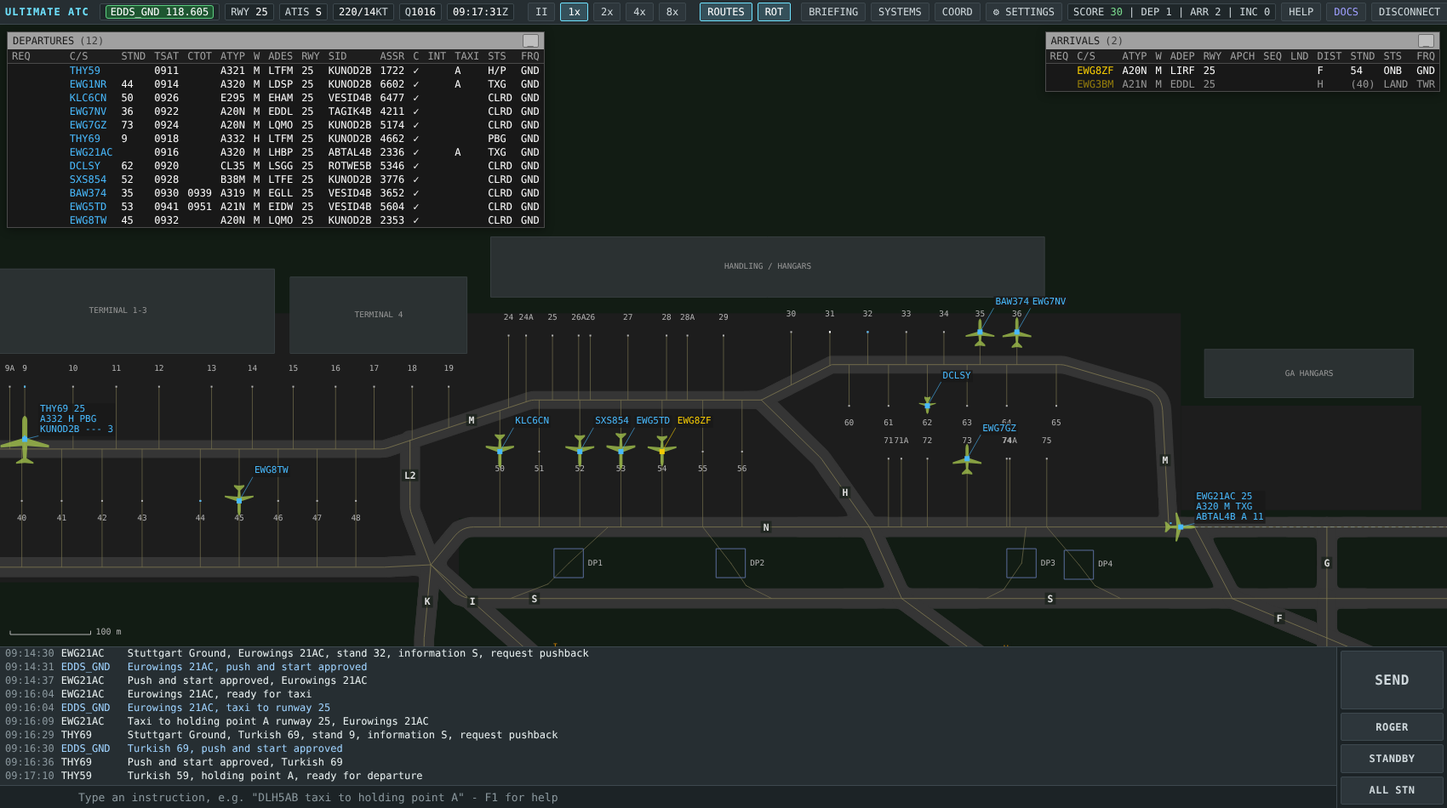
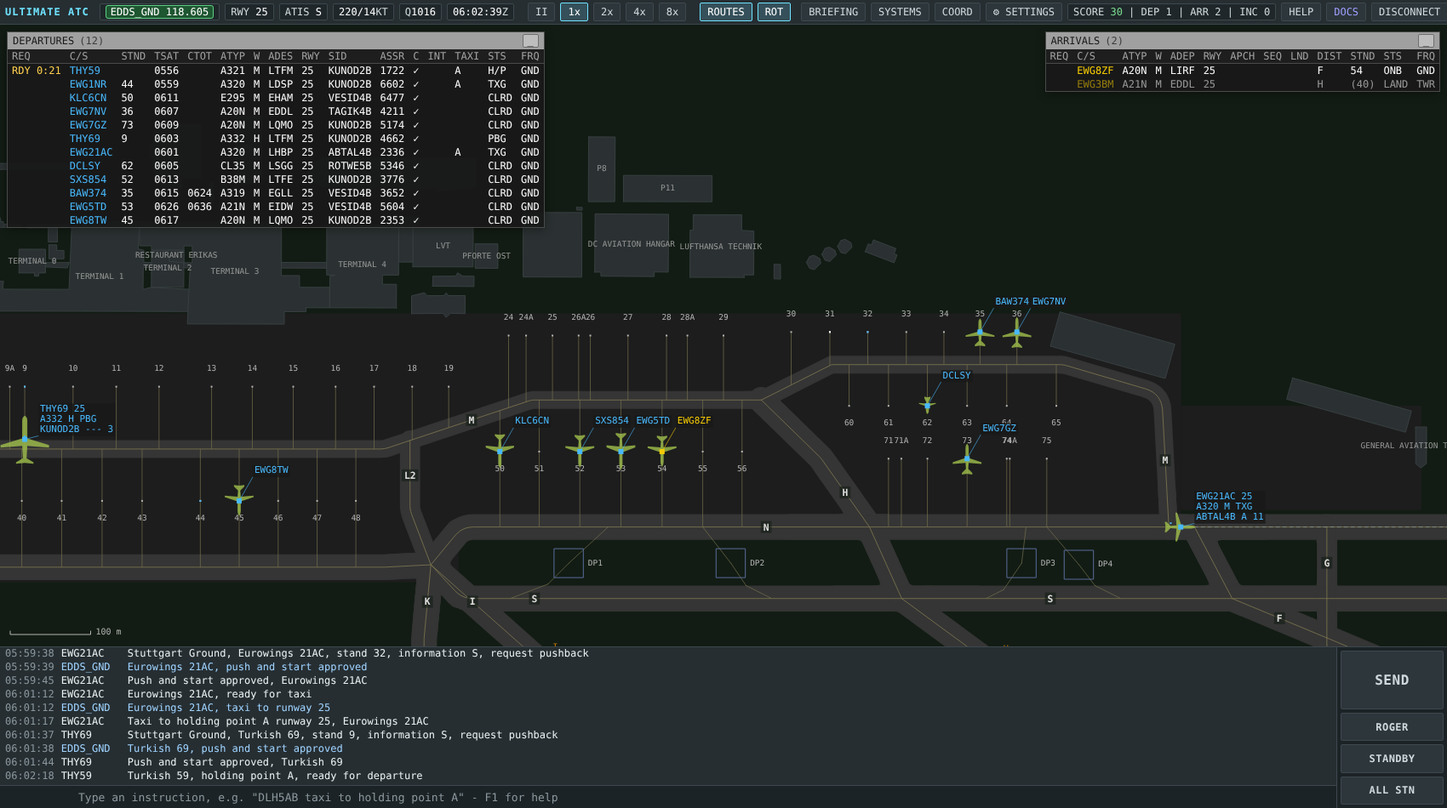
Release 1.3.0: complete Sylt and Nuremberg layouts, AIP check of all airports
- Sylt: the closed parts of the aerodrome chart digitised by hand (G along
  the east side, E south of 06/24, the former runway, the stub west of D,
  the turning pad at A); crosses are never drawn on a runway in use
- Nuremberg: the GA aprons OSM does not have, digitised from the ground
  movement chart (Apron G2 / G2A, J corridor, FAI and Aero-Dienst aprons,
  strips along S3 / S4), the lane into the Aero-Dienst apron; grass
  parking G3 is no longer drawn as an apron (importer skips grass aprons)
- Scope: each building name once, names keep clear of stand and taxiway
  labels
- Build: the generated airport data is a chunk of its own (no size warning)
- Tests for the new layouts, docs, changelog, screenshots, version 1.3.0,
  release benchmark (13.1 / 6.6 per hour, Tower 11.7 / 9.9, no collisions,
  incursions or go-arounds) and soak test

Claude-Session: https://claude.ai/code/session_012R9UeubPyobxY8xkUur18h

diff --git a/src/data/airports/edxw.ts b/src/data/airports/edxw.ts
@@ -82,6 +82,44 @@ const built = buildLayout(EDXW_LAYOUT, {
   ],
 });
 
+/**
+ * Paved parts of the aerodrome chart that OpenStreetMap does not have, digitised by hand from the chart
+ * (AD 2 EDXW 2-5, AMDT 06/26, georeferenced on the runway ends; approximate, about 5 m). Most of them are closed
+ * (crosses on the chart): G apart from its southern stub, E south of runway 06/24, the former runway east of
+ * 14/32 and the links around it. The former runway west of 14/32 (C runs on it) and the turning pad at A are open.
+ * Drawn only: none of them leads anywhere the simulated traffic goes.
+ */
+const CHART_PAVEMENT: { name?: string; closed?: boolean; widthM: number; points: [number, number][] }[] = [
+  // G north of the junction near the 32 end, along the east side to the 24 end
+  { name: 'G', closed: true, widthM: 15, points: [[54.9072426, 8.3543708], [54.9074088, 8.3545865], [54.9080852, 8.3545757], [54.9087560, 8.3545690], [54.9094268, 8.3545736], [54.9100976, 8.3545720], [54.9107694, 8.3545750], [54.9114412, 8.3545771], [54.9121125, 8.3545631], [54.9124932, 8.3545733], [54.9128372, 8.3545527], [54.9133122, 8.3543591], [54.9137956, 8.3541470], [54.9142785, 8.3539281], [54.9146125, 8.3537615], [54.9149611, 8.3535843], [54.9153405, 8.3533767], [54.9157101, 8.3531614], [54.9161184, 8.3528149], [54.9165205, 8.3524616]] },
+  // G into the 24 end
+  { name: 'G', closed: true, widthM: 15, points: [[54.9164730, 8.3525161], [54.9167058, 8.3523262], [54.9170807, 8.3518871]] },
+  // G from the junction near the 32 end west to runway 14/32 at the glide path antenna
+  { name: 'G', closed: true, widthM: 15, points: [[54.9072426, 8.3543708], [54.9072043, 8.3536086], [54.9071395, 8.3530168], [54.9070651, 8.3525544], [54.9069345, 8.3519428], [54.9068078, 8.3514407], [54.9066750, 8.3509909], [54.9063733, 8.3501845], [54.9060612, 8.3493561]] },
+  // E south of runway 06/24 to the former runway
+  { name: 'E', closed: true, widthM: 15, points: [[54.9162655, 8.3494707], [54.9158725, 8.3496114], [54.9154750, 8.3497596], [54.9150003, 8.3498395], [54.9145357, 8.3499070], [54.9140598, 8.3499618], [54.9136658, 8.3499518], [54.9132627, 8.3499419]] },
+  // from the former runway east to G
+  { closed: true, widthM: 12, points: [[54.9132627, 8.3499419], [54.9130764, 8.3506906], [54.9130408, 8.3508855], [54.9128330, 8.3517253], [54.9126268, 8.3525782], [54.9124170, 8.3534445], [54.9122643, 8.3541284], [54.9121125, 8.3545631]] },
+  // from runway 14/32 (east side) north-east to the former runway
+  { closed: true, widthM: 15, points: [[54.9101890, 8.3442430], [54.9105264, 8.3446779], [54.9108731, 8.3451309], [54.9113577, 8.3457312], [54.9118417, 8.3463293], [54.9123318, 8.3469349], [54.9128089, 8.3475243], [54.9132935, 8.3481377], [54.9134444, 8.3484099], [54.9135479, 8.3486681], [54.9136451, 8.3489789], [54.9137396, 8.3493958], [54.9138308, 8.3496718], [54.9139384, 8.3498751], [54.9140161, 8.3499480], [54.9140631, 8.3499596]] },
+  // narrow link from the runway intersection area north-east to the former runway
+  { closed: true, widthM: 6, points: [[54.9093941, 8.3452276], [54.9097573, 8.3457726], [54.9101111, 8.3463037], [54.9106148, 8.3470389], [54.9110958, 8.3477518], [54.9115882, 8.3484848], [54.9120808, 8.3492219], [54.9125763, 8.3499546], [54.9130764, 8.3506906]] },
+  // narrow loop east of runway 14/32
+  { closed: true, widthM: 6, points: [[54.9101111, 8.3463037], [54.9102828, 8.3468697], [54.9104567, 8.3474500], [54.9104692, 8.3475304], [54.9104487, 8.3478655], [54.9103790, 8.3480593], [54.9103228, 8.3480610], [54.9101379, 8.3479981], [54.9100299, 8.3477215], [54.9097831, 8.3469280], [54.9095352, 8.3461292], [54.9092925, 8.3453536]] },
+  // narrow link from A at the 06 end east along runway 06/24
+  { closed: true, widthM: 6, points: [[54.9098810, 8.3315902], [54.9098092, 8.3317729], [54.9095906, 8.3328211], [54.9093697, 8.3338900], [54.9091443, 8.3349747], [54.9089242, 8.3360384], [54.9087078, 8.3370834], [54.9084906, 8.3381314], [54.9082678, 8.3392053], [54.9080443, 8.3402802], [54.9078568, 8.3411893], [54.9078013, 8.3416604], [54.9078039, 8.3420912], [54.9078753, 8.3426524], [54.9079787, 8.3430434], [54.9081312, 8.3434333], [54.9083531, 8.3438025], [54.9088798, 8.3445165], [54.9093941, 8.3452276]] },
+  // the former runway east of runway 14/32
+  { closed: true, widthM: 80, points: [[54.9166852, 8.3361962], [54.9164236, 8.3372468], [54.9161560, 8.3383214], [54.9158980, 8.3393580], [54.9156331, 8.3404218], [54.9153682, 8.3414857], [54.9151033, 8.3425495], [54.9148452, 8.3435861], [54.9145804, 8.3446500], [54.9143155, 8.3457138], [54.9140506, 8.3467777], [54.9137925, 8.3478142], [54.9135276, 8.3488781], [54.9132627, 8.3499419]] },
+  // stub west of the D / C junction
+  { closed: true, widthM: 12, points: [[54.9184866, 8.3289665], [54.9182790, 8.3298014], [54.9180795, 8.3306041], [54.9178721, 8.3314369], [54.9178053, 8.3317824]] },
+  // the former runway west of runway 14/32 (C runs on it)
+  { widthM: 80, points: [[54.9178053, 8.3317824], [54.9175823, 8.3325930], [54.9173580, 8.3334938], [54.9171337, 8.3343946], [54.9169095, 8.3352954], [54.9166852, 8.3361962]] },
+  // turning pad west of A (south part)
+  { widthM: 16.5, points: [[54.9052627, 8.3325366], [54.9054072, 8.3331626], [54.9054739, 8.3335351]] },
+];
+/** The turning pad at the end of the stub west of A (chart). */
+const CHART_PAD: [number, number][] = [[54.9054739, 8.3338145], [54.9055355, 8.3337932], [54.9055877, 8.3337326], [54.9056226, 8.3336420], [54.9056348, 8.3335351], [54.9056226, 8.3334282], [54.9055877, 8.3333376], [54.9055355, 8.3332770], [54.9054739, 8.3332558], [54.9054123, 8.3332770], [54.9053601, 8.3333376], [54.9053252, 8.3334282], [54.9053129, 8.3335351], [54.9053252, 8.3336420], [54.9053601, 8.3337326], [54.9054123, 8.3337932]];
+
 // Thresholds: AIP AD 2.12 (no displaced thresholds).
 const THR_14 = { lat: 54.9193483, lon: 8.3328822 };
 const THR_32 = { lat: 54.9038508, lon: 8.3520942 };
@@ -129,9 +167,9 @@ export const EDXW: AirportData = {
   taxiNodes: built.taxiNodes,
   taxiEdges: built.taxiEdges,
   stands: built.stands,
-  areas: built.areas,
+  areas: [...built.areas, { name: 'Turning pad', polygon: CHART_PAD.map(([lat, lon]) => ({ lat, lon })) }],
   buildings: built.buildings,
-  pavement: built.pavement,
+  pavement: [...built.pavement, ...CHART_PAVEMENT.map((l) => ({ ...l, points: l.points.map(([lat, lon]) => ({ lat, lon })) }))],
   // Sylt Tower only (it also gives the clearances on VATSIM; in reality Bremen Radar does).
   stations: [
     { callsign: 'EDXW_TWR', type: 'TWR', name: 'Sylt Tower', frequency: '119.750' },

diff --git a/src/ui/scope.ts b/src/ui/scope.ts
@@ -281,10 +281,12 @@ export class Scope {
   ) {
     this.ctx = canvas.getContext('2d')!;
     this.computeLabels();
+    // Each name once, on the largest building that carries it (OSM often splits a complex into parts).
     this.namedBuildings = this.sim.airport.buildings
       .filter((b) => b.name && b.name !== 'Tower' && b.polygon.length >= 3)
       .map((b) => ({ name: b.name, ...polygonCentre(b.polygon) }))
-      .sort((a, b) => b.area - a.area);
+      .sort((a, b) => b.area - a.area)
+      .filter((b, i, all) => all.findIndex((o) => o.name === b.name) === i);
     this.pavement = pavementGeometry(this.sim.airport);
     this.bindEvents();
     this.resize();
@@ -666,6 +668,9 @@ export class Scope {
     const half = Math.max(2.5, 9 * z);
     const spacing = 60; // metres between crosses
     ctx.beginPath();
+    // No crosses on a runway in use (a closed former runway or taxiway may run beneath it).
+    const runways = [...new Set([...ap.runwayEnds.values()].map((e) => e.runway))];
+    const onRunway = (q: Vec2) => runways.some((r) => ap.isOnRunway(r, q, 5));
     const crossesAlong = (pts: Vec2[]) => {
       for (let k = 0; k < pts.length - 1; k++) {
         const a = pts[k];
@@ -673,7 +678,9 @@ export class Scope {
         const n = Math.max(1, Math.round(Math.hypot(b.x - a.x, b.y - a.y) / spacing));
         for (let i = 0; i < n; i++) {
           const t = (i + 0.5) / n;
-          const p = this.toScreen({ x: a.x + (b.x - a.x) * t, y: a.y + (b.y - a.y) * t });
+          const q = { x: a.x + (b.x - a.x) * t, y: a.y + (b.y - a.y) * t };
+          if (onRunway(q)) continue;
+          const p = this.toScreen(q);
           ctx.moveTo(p.x - half, p.y - half);
           ctx.lineTo(p.x + half, p.y + half);
           ctx.moveTo(p.x - half, p.y + half);
@@ -868,6 +875,10 @@ export class Scope {
       }
     }
 
+    // Screen boxes of the stand and taxiway labels: building names keep clear of them.
+    const taken: { x0: number; x1: number; y0: number; y1: number }[] = [];
+    const box = (x: number, y: number, halfW: number, halfH: number) => ({ x0: x - halfW, x1: x + halfW, y0: y - halfH, y1: y + halfH });
+
     // Stands
     if (z > 0.35) {
       ctx.font = `${Math.max(9, Math.min(12, 10 * z))}px Consolas, monospace`;
@@ -878,6 +889,7 @@ export class Scope {
         const p = this.toScreen(add(s.pos, scale(v, 22)));
         ctx.fillStyle = this.t.standLabel;
         ctx.fillText(s.id, p.x, p.y);
+        taken.push(box(p.x, p.y, ctx.measureText(s.id).width / 2 + 1, 6));
         const q = this.toScreen(s.pos);
         ctx.fillRect(q.x - 1, q.y - 1, 2, 2);
       }
@@ -907,9 +919,9 @@ export class Scope {
       for (const l of this.taxiwayLabels) {
         if (l.repeat && z < 0.35) continue; // repeats only when zoomed in
         const p = this.toScreen(l.pos);
-        // Closed taxiways: designator in red.
         // Closed taxiways: designator in red (session closure) or grey (permanently closed).
         const u = l.name.toUpperCase();
+        taken.push(box(p.x, p.y, ctx.measureText(l.name).width / 2 + 3, 7));
         this.labelBox(l.name, p.x, p.y, ap.closedTaxiways.has(u) ? '#ff6b6b' : ap.outOfServiceTaxiways.has(u) ? this.t.standLabel : this.t.label);
       }
     }
@@ -920,15 +932,13 @@ export class Scope {
       ctx.fillStyle = this.t.buildingLabel;
       ctx.textAlign = 'center';
       ctx.textBaseline = 'middle';
-      // Largest buildings first; a name that would overlap one already drawn is left out.
-      const placed: { x0: number; x1: number; y0: number; y1: number }[] = [];
+      // Largest buildings first; a name that would overlap a stand, a taxiway or another name is left out.
       for (const b of this.namedBuildings) {
         const p = this.toScreen(b.centre);
         const text = b.name.toUpperCase();
-        const w = ctx.measureText(text).width / 2 + 2;
-        const box = { x0: p.x - w, x1: p.x + w, y0: p.y - 7, y1: p.y + 7 };
-        if (placed.some((q) => box.x0 < q.x1 && q.x0 < box.x1 && box.y0 < q.y1 && q.y0 < box.y1)) continue;
-        placed.push(box);
+        const r = box(p.x, p.y, ctx.measureText(text).width / 2 + 2, 7);
+        if (taken.some((q) => r.x0 < q.x1 && q.x0 < r.x1 && r.y0 < q.y1 && q.y0 < r.y1)) continue;
+        taken.push(r);
         ctx.fillText(text, p.x, p.y);
       }
     }

diff --git a/src/data/airports/eddn.ts b/src/data/airports/eddn.ts
@@ -94,6 +94,26 @@ const built = buildLayout(EDDN_LAYOUT, {
   ],
 });
 
+/**
+ * Paved areas OpenStreetMap does not have, digitised by hand from the AIP ground movement chart (AD 2 EDDN 2-7,
+ * AMDT 01/26, georeferenced on its graticule; approximate, a few metres): the parts of the GA aprons and the J
+ * corridor between the aprons that the OSM apron polygons leave out, the terminal frontage, the Hangar A
+ * forecourt, and the FAI and Aero-Dienst aprons (the outlines of their areas of responsibility; the chart does
+ * not shade them, their paving is inferred).
+ */
+const CHART_AREAS: [string, [number, number][]][] = [
+  ['Apron G2 / G2A', [[49.4953276, 11.0727706], [49.4951511, 11.0745654], [49.4945082, 11.0744164], [49.4947208, 11.0722537], [49.4951124, 11.0723445], [49.4951086, 11.0724445], [49.4951284, 11.0724859], [49.4951816, 11.0725532], [49.4952365, 11.0726027], [49.4952879, 11.072688]]],
+  ['Apron (S3 east)', [[49.4947496, 11.074454], [49.4945987, 11.0759885], [49.4947098, 11.0760142], [49.4946614, 11.0766272], [49.494299, 11.0765432], [49.4945099, 11.0743985]]],
+  ['Apron (J)', [[49.4968446, 11.0719345], [49.4967913, 11.0724765], [49.4966735, 11.0724584], [49.4965999, 11.072478], [49.4965294, 11.072526], [49.4964756, 11.0725869], [49.4964685, 11.0726587], [49.4947208, 11.0722537], [49.4947988, 11.0714605]]],
+  ['Apron (Hangar 8)', [[49.4959053, 11.0687192], [49.495855, 11.0692307], [49.4953389, 11.0691295], [49.4953362, 11.0691564], [49.4950907, 11.0690995], [49.4951516, 11.0684803], [49.4954848, 11.0685575], [49.4954903, 11.0686231]]],
+  ['Apron (S4)', [[49.4953433, 11.0690846], [49.4950998, 11.0715614], [49.4947958, 11.071491], [49.4949017, 11.0704141], [49.494814, 11.0703938], [49.4949393, 11.0691195], [49.4950855, 11.0691534], [49.4950978, 11.0690277]]],
+  ['Apron (west edge)', [[49.4970855, 11.0684512], [49.4970581, 11.0687294], [49.4960703, 11.0685005], [49.4960977, 11.0682223], [49.4962789, 11.0682643], [49.4962992, 11.0680579], [49.4963752, 11.0680755], [49.4963549, 11.0682819]]],
+  ['FAI apron', [[49.4956649, 11.0670298], [49.4955211, 11.0684925], [49.4950652, 11.0683869], [49.4949991, 11.0686451], [49.4947174, 11.0685798], [49.4948875, 11.0668497]]],
+  ['Aero-Dienst apron', [[49.4943249, 11.0729972], [49.4943037, 11.0732126], [49.4943388, 11.0732207], [49.4943211, 11.0734002], [49.4942993, 11.0737439], [49.4943354, 11.0738147], [49.4941644, 11.0755538], [49.4941141, 11.0755421], [49.49408, 11.0758885], [49.4938708, 11.07584], [49.4940748, 11.0737653], [49.4937007, 11.0736786], [49.4937801, 11.072871]]],
+  ['Apron (terminal frontage)', [[49.4953925, 11.074603], [49.4950073, 11.0784604], [49.4948904, 11.0784333], [49.4952698, 11.0745745]]],
+  ['Apron (Hangar A)', [[49.4945148, 11.0846242], [49.4943911, 11.0855776], [49.4942684, 11.0855491], [49.4943628, 11.0845889]]],
+];
+
 /** Thresholds: AIP AD 2.12 (not displaced; the paved areas beyond them are tagged stopway in OSM, the AIP lists none). */
 const END_10 = { lat: 49.5005506, lon: 11.05917 };
 const END_28 = { lat: 49.4969253, lon: 11.0960247 };
@@ -129,9 +149,13 @@ export const EDDN: AirportData = {
   taxiNodes: built.taxiNodes,
   taxiEdges: built.taxiEdges,
   stands: built.stands,
-  areas: built.areas,
+  areas: [...built.areas, ...CHART_AREAS.map(([name, polygon]) => ({ name, polygon: polygon.map(([lat, lon]) => ({ lat, lon })) }))],
   buildings: built.buildings,
-  pavement: built.pavement,
+  pavement: [
+    ...built.pavement,
+    // Unnamed lane from S3 south between Hangar 4 and Hangar 3 into the Aero-Dienst apron (ground movement chart).
+    { points: [[49.4946759, 11.0742773], [49.4946134, 11.0742462], [49.4944806, 11.07421], [49.4943698, 11.0741824], [49.4942879, 11.0741635]].map(([lat, lon]) => ({ lat, lon })), widthM: 10.5 },
+  ],
   stations: [
     { callsign: 'EDDN_GND', type: 'GND', name: 'Nuernberg Ground', frequency: '121.760' },
     { callsign: 'EDDN_TWR', type: 'TWR', name: 'Nuernberg Tower', frequency: '118.305' },

diff --git a/tests/layouts.test.ts b/tests/layouts.test.ts
@@ -58,6 +58,18 @@ describe('Sylt layout (aerodrome chart)', () => {
     expect(isRouteError(findRoute(ap, { node: ap.node('STAND_G4') }, ap.holdingPoint('D')!, [], { wingspanM: 21 }))).toBe(true);
     for (const hp of ['A', 'L']) expect(isRouteError(findRoute(ap, { node: ap.node('STAND_N1') }, ap.holdingPoint(hp)!, [], { wingspanM: 21 }))).toBe(false);
   });
+
+  it('draws the closed parts of the chart: G along the east side, E south of 06/24 and the former runway', () => {
+    const closed = (EDXW.pavement ?? []).filter((l) => l.closed);
+    expect(closed.filter((l) => l.name === 'G').length).toBe(3);
+    expect(closed.some((l) => l.name === 'E')).toBe(true);
+    // The former runway: 80 m wide, closed east of runway 14/32, open west of it (C runs on it).
+    expect((EDXW.pavement ?? []).filter((l) => l.widthM === 80).map((l) => !!l.closed).sort()).toEqual([false, true]);
+    // G and E are partly open, so they stay usable by name (only the drawn parts are closed).
+    const ap = new Airport(EDXW);
+    expect(ap.outOfServiceTaxiways.has('G')).toBe(false);
+    expect(ap.outOfServiceTaxiways.has('E')).toBe(false);
+  });
 });
 
 describe('Nuremberg layout (ground movement chart)', () => {
@@ -67,6 +79,22 @@ describe('Nuremberg layout (ground movement chart)', () => {
     const buildings = EDDN.buildings.map((b) => b.name);
     expect(buildings).toEqual(expect.arrayContaining(['Flughafen-Terminal', 'Hangar 2', 'Hangar 3', 'Hangar 4', 'Hangar 7', 'Hangar 8', 'Halle A']));
     expect(EDDN.buildings.length).toBeGreaterThan(50);
+  });
+
+  it('has the GA aprons of the chart and no pavement on the grass parking G3', () => {
+    const areas = EDDN.areas.map((a) => a.name);
+    expect(areas).toEqual(expect.arrayContaining(['Apron G2 / G2A', 'FAI apron', 'Aero-Dienst apron', 'H1', 'H2', 'H3', 'H4']));
+    // G3 (OSM: apron + landuse=grass) is grass, the scope background: no area there.
+    const ap = new Airport(EDDN);
+    const g3 = ap.proj.toLocal({ lat: 49.4965, lon: 11.0675 });
+    const inside = (poly: { x: number; y: number }[], p: { x: number; y: number }) => {
+      let c = false;
+      for (let i = 0, j = poly.length - 1; i < poly.length; j = i++) {
+        if (poly[i].y > p.y !== poly[j].y > p.y && p.x < ((poly[j].x - poly[i].x) * (p.y - poly[i].y)) / (poly[j].y - poly[i].y) + poly[i].x) c = !c;
+      }
+      return c;
+    };
+    expect(ap.areas.some((a) => inside(a.polygon, g3))).toBe(false);
   });
 });
 

diff --git a/src/data/airports/eddn.layout.ts b/src/data/airports/eddn.layout.ts
@@ -1,4 +1,4 @@
-// Generated by scripts/osm-import.mjs from OpenStreetMap on 2026-10-21 - do not edit by hand,
+// Generated by scripts/osm-import.mjs from OpenStreetMap on 2026-10-22 - do not edit by hand,
 // change OSM-derived facts in the importer options or override them in the airport file.
 // Data © OpenStreetMap contributors, available under the Open Database License (ODbL 1.0).
 import type { OsmLayout } from './osmLayout';
@@ -477,7 +477,6 @@ export const EDDN_LAYOUT: OsmLayout = {
     { id: "P6", pos: [49.494866, 11.0804094], heading: 189, lanes: ["M2.10"], spacingM: 0 },
   ],
   areas: [
-    { name: "Apron", polygon: [[49.4962706, 11.0668905], [49.4961342, 11.0682055], [49.4967259, 11.0683357], [49.4968707, 11.0670482], [49.49685, 11.0669686], [49.4967988, 11.0669252], [49.4962706, 11.0668905]] },
     { name: "", polygon: [[49.4984791, 11.064985], [49.4985616, 11.0652931], [49.499151, 11.0649833], [49.4994005, 11.0649897], [49.4996038, 11.0651732], [49.4997214, 11.0654841], [49.4998366, 11.0642968], [49.499723, 11.0645075], [49.499301, 11.0645106], [49.4984791, 11.064985]] },
     { name: "", polygon: [[49.4968242, 11.0947623], [49.4967076, 11.09599], [49.4964487, 11.0959207], [49.4961866, 11.0956611], [49.4953875, 11.0939987], [49.4955882, 11.0937823], [49.4959117, 11.0945377], [49.4962672, 11.0950543], [49.4964633, 11.0950938], [49.4966558, 11.0950571], [49.4967878, 11.0949076], [49.4968242, 11.0947623]] },
     { name: "", polygon: [[49.4978034, 11.0705484], [49.4987644, 11.0699849], [49.499153, 11.0700124], [49.4993087, 11.0697356], [49.4992087, 11.0707653], [49.4990741, 11.0704964], [49.4988744, 11.0703954], [49.4983357, 11.0705931], [49.4978859, 11.0708335], [49.4978034, 11.0705484]] },

diff --git a/vite.config.ts b/vite.config.ts
@@ -4,6 +4,17 @@ import { defineConfig } from 'vitest/config';
 // (served from https://<user>.github.io/ultimate-atc/).
 export default defineConfig({
   base: './',
+  build: {
+    rolldownOptions: {
+      output: {
+        // The generated airport data (OSM layouts and buildings) goes into its own chunk:
+        // it keeps the code chunk below the size warning and changes less often.
+        codeSplitting: {
+          groups: [{ name: 'airport-data', test: /src[\\/]data[\\/]airports[\\/][a-z]{4}\.(layout|buildings)\.ts$/ }],
+        },
+      },
+    },
+  },
   test: {
     include: ['tests/**/*.test.ts'],
     setupFiles: ['tests/setup.ts'],

diff --git a/docs/benchmarks.md b/docs/benchmarks.md
@@ -47,6 +47,7 @@ Measured on 2026-10-08 with the same benchmark for every version (older versions
 | 1.1.0 (2026-10-14) | 14.0 | 7.2 | 0 | 0 | 0 | 11.3 | 3.0 s |
 | 1.1.1 (2026-10-14) | 11.7 | 6.6 | 0 | 0 | 0 | 11.1 | 4.3 s |
 | 1.2.0 (2026-10-21) | 13.1 | 6.6 | 0 | 0 | 0 | 9.8 | 3.7 s |
+| 1.3.0 (2026-10-22) | 13.1 | 6.6 | 0 | 0 | 0 | 9.8 | 4.0 s |
 
 **Since 0.1** (0.5.0 compared with 0.1.0): 2.6 times as many departures, 1.9 times as many arrivals per hour, no more collisions (11 → 0) and go-arounds (53 → 2) in 20 hours, 44 % fewer deadlock calls. In 0.5.0 the real Stuttgart traffic mix replaced the generic one (more Eurowings and Turkish traffic, fewer small regional jets), which shifts the departure and arrival numbers slightly; the benchmark sessions are otherwise identical. v0.4.0 introduced the crossing-priority rule, which made the simulation about 7 times slower; caching the sampled paths brought it back to 3.7 s per simulated hour (less than 1 % of a CPU core at 1x).
 
@@ -70,6 +71,8 @@ The second part of 1.1.0 (Nuremberg, Memmingen, Sylt, runway backtracking; relea
 
 **1.2.0** (real-world overhaul, PHX scope style): 13.1 instead of 11.7 departures per hour, arrivals unchanged at 6.6, 9.8 instead of 11.1 deadlock calls per hour; Tower benchmark 11.7 / 9.9 (11.3 / 10.2). Benchmarked on the data commit and on the release: the scope, tag and list changes do not change a single number, the differences come from the data. Flight plans are now drawn destination first and filed via the SID towards it, so the 20 sessions get a different random traffic sample; departures after one another still fly the same exit fix (2 minutes spacing instead of 1) as often as before, a quarter of the time, so the SIDs themselves do not speed up the flow. Automatic routes cross the runway only between K and Y and keep off Z, the stand allocation spreads narrow-bodies over all stands up to code D (without that rule: 13.0 / 6.8, so it is not the cause), and the published TORA values and the new intersections E / G change which entries crews accept. No collisions, incursions or go-arounds. Soak test (1.2.0): 12.1 departures and 7.5 arrivals per hour, no collisions, no incursions, **no go-arounds** (1.1.0: 2, from one rejected take-off that the new traffic sample no longer contains), 11.3 deadlock calls per hour.
 
+**1.3.0** (complete Sylt and Nuremberg layouts, buildings, AIP check of all airports): the Ground and Tower results are identical to 1.2.0 (13.1 / 6.6 and 11.7 / 9.9 per hour, no collisions, incursions or go-arounds); benchmarked on the data commit and on the release. At Stuttgart the buildings are scenery, the published approaches only matter when the ILS fails (never in the benchmark, which has no special events), and the widths, code letter limits and the intersections F / E for runway 07 do not change a single number. The computing time of 4.0 s instead of 3.7 s is within the variation of the machine (3.8 s on the data commit). Soak test (1.3.0): 12.0 departures and 7.5 arrivals per hour (1.2.0: 12.1 / 7.5), no collisions, no incursions, no go-arounds, 11.1 deadlock calls per hour (11.3); it has more wide-bodies than the benchmark, and these now keep off G, E and C (code D after the AIP). Sylt and Nuremberg are covered by their own tests (routes on the new taxiways, the light-aircraft limits, the published approaches) and by the one-hour sessions per runway direction that the test suite runs at every airport.
+
 ### Tower benchmark (since 0.7)
 
 The same 20 sessions with you as **Tower** (Ground and Delivery run by the simulator) and a simple scripted Tower controller: it clears arrivals to land inside 4 NM when nobody is lined up, clears a departure for take-off when the runway is free, the next arrival is more than 110 s away, the departure spacing is met and its CTOT window is open, hands departures to Radar and arrivals to Ground when they ask, and clears crossings when the runway is free and the next arrival is more than 90 s away.
@@ -83,6 +86,7 @@ The same 20 sessions with you as **Tower** (Ground and Delivery run by the simul
 | 1.1.0 (2026-10-14) | 11.2 | 10.6 | 0 | 0 | 0 | 0 | 0 |
 | 1.1.1 (2026-10-14) | 11.3 | 10.2 | 0 | 0 | 0 | 0 | 0 |
 | 1.2.0 (2026-10-21) | 11.7 | 9.9 | 0 | 0 | 0 | 0 | 0 |
+| 1.3.0 (2026-10-22) | 11.7 | 9.9 | 0 | 0 | 0 | 0 | 0 |
 
 Since the AI Ground hands departures over before the holding point, the scripted controller (which only clears aircraft that have reached the holding point) sees queues on its own frequency that the AI Ground no longer manages; departures dropped by about 1 per hour, arrivals rose slightly. In 0.8.0 the lane priority on the ground brings departures back to 11.2 per hour.
 
@@ -90,7 +94,7 @@ The first run of this benchmark found two problems that were fixed for the relea
 
 ## Simulated traffic
 
-How many hours of traffic have been simulated while developing and testing the simulator. Since this page exists, every test file reports its simulated hours (`[simulated traffic] ... h` in the test output; a full `npm test` run currently simulates about **35 h**, plus 20 h for the soak test in CI).
+How many hours of traffic have been simulated while developing and testing the simulator. Since this page exists, every test file reports its simulated hours (`[simulated traffic] ... h` in the test output; a full `npm test` run currently simulates about **36 h**, plus 20 h for the soak test in CI).
 
 | Period | Simulated traffic | Note |
 | ------ | ----------------: | ---- |
@@ -128,6 +132,9 @@ How many hours of traffic have been simulated while developing and testing the s
 | 1.2.0: release benchmark, two comparison runs (data commit, data commit without the stand pool) and the soak test | 140 h | measured: 3 runs of 2 x 20 h and one soak run of 20 h |
 | 1.2.0: test-suite runs and diagnostics (scripted controllers on several seeds, stand allocation, de-icing routes) | ~350 h | estimate: about 10 runs of 35 h each |
 | **Total up to 1.2.0** | **~4950 h** | of which 2220 h exactly measured |
+| 1.3.0: release benchmark and soak test, and the same on the data commit | 120 h | measured: 2 runs of 2 x 20 h and 2 soak runs of 20 h |
+| 1.3.0: test-suite runs (layouts, routes on the new taxiways, approaches) | ~300 h | estimate: about 8 runs of 36 h each |
+| **Total up to 1.3.0** | **~5370 h** | of which 2340 h exactly measured |
 
 From now on each benchmark, soak test and test-suite run adds its measured hours here when results are recorded.
 

diff --git a/CHANGELOG.md b/CHANGELOG.md
@@ -4,12 +4,15 @@ All notable changes to this project are documented in this file. The format is b
 
 ## [Unreleased]
 
+## [1.3.0] - 2026-10-22
+
 Complete layouts for Sylt and Nuremberg and every airport checked against the DFS AIP (AIRAC 2026OCT01: text pages, aerodrome, ground movement, approach and SID charts - used as a reference only, facts read by hand).
 
 ### Added
 
 - **Sylt: every taxiway of the aerodrome chart** (AMDT 06/26): besides A, C, D, I and P now **B** (5.7 t), **E**, **F**, **G** (to the glider site), **L**, **L1** (Apron 3), **L3** and **M**, the lanes of Apron 2, Apron 3 and Apron 4, with their holding points (B, G and L at runway 14/32; M, P, E and F at runway 06/24). Weight-limited taxiways (B, Apron 4: 5.7 t; I: 2 t) are for light aircraft, which the simulator does not have. **Apron 3** gets business jet positions N1-N3: general aviation from 15 t or 19 m wingspan must park there (AIP); arrivals 32 vacate via L, departures 14 line up from L.
-- **Nuremberg: the general aviation lanes** S3 (to Apron G2 / G2A), S4 west (FAI apron) and **T2** (aprons U1 / U2), code B.
+- **Nuremberg: the general aviation lanes** S3 (to Apron G2 / G2A), S4 west (FAI apron) and **T2** (aprons U1 / U2), code B, and the **GA aprons** OSM does not have, digitised from the ground movement chart: the rest of Apron G2 / G2A, the J corridor ("Entry GAT"), the strips along S3 / S4 and at Hangar 8, the FAI and Aero-Dienst aprons; G3 is grass parking and no longer drawn as an apron.
+- **Sylt: the closed parts of the aerodrome chart**, digitised by hand: G along the east side and its links to the 24 end and runway 14/32, E south of runway 06/24, the 80 m wide **former runway** (closed east of 14/32, C runs on its western part) with the links and the loop around it, the stub west of D and the turning pad at A. Crosses are never drawn on a runway in use.
 - **Buildings and aprons**: the OSM importer now takes every building on the aerodrome (also buildings mapped as multipolygons, such as the Nuremberg terminal, and hangars just outside a boundary drawn too tightly), paved taxiway areas and helipads. Nuremberg shows the terminal, hangars 2-8, Halle A, the maintenance and Aero-Dienst buildings and 70 more; Sylt the Apron 3 and Apron 4 hangars and the general aviation buildings; Memmingen 91 buildings instead of 35 (re-imported, the taxi graph is unchanged). **Stuttgart** gets the real building outlines from OpenStreetMap (141 buildings: terminals 0-4, hangars, cargo, the tower ...) instead of a few rough rectangles - `osm-import.mjs --buildings-only` for airports whose taxi graph is built by hand.
 - Airport data: **`pavement`** lines - paved surfaces outside the taxi graph, drawn like taxiways but never routed (links inside a runway strip that would bypass the holding points; closed taxiways that lead nowhere, drawn with crosses and refused by crews). `buildLayout()` options `drawOnly`, `keepNodes` and `edgeMaxWingspanM` (limits that change along a taxiway); taxiways not connected to the runway are drawn as pavement.
 - Airport data: **published approaches per runway end** (`approaches`). A runway without an ILS is flown as an RNP approach whatever the ILS switches say (Approach spaces such arrivals like non-precision approaches, the ATIS reports no ILS outage, the scope labels the centre line `RNP`); a localizer-only approach needs published localizer minima. Sylt: runway 14 has an RNP approach only (it was flown as an ILS). Stuttgart 07: the localizer approach is for aircraft up to 5.7 t, so airliners fly RNP when the ILS 07 fails.
@@ -24,8 +27,9 @@ Complete layouts for Sylt and Nuremberg and every airport checked against the DF
 - Memmingen: **P is closed west of P4** (crosses on the charts; it was open up to the 06 end), R meets the runway about 475 m from the 06 end (was 455 m).
 - Thresholds, elevations and reference points from the AIP: Sylt (elevation 52 ft, threshold 14 32 ft / 32 31 ft, the ARP on the 14/32 centre line), Nuremberg (1044 ft, thresholds 1020 / 1044 ft), Memmingen (2079 ft, threshold 24 2053 ft).
 - Stuttgart: de-icing pad **DP2** takes code E plus the B747-8 (68.5 m, AIP AD 2.20; was 80 m); KRH also for Pirmasens (ETIP).
-- Building names on the scope: largest buildings first, a name that would overlap another one is left out; unnamed buildings get no label.
+- Building names on the scope: each name once (on the largest building that carries it), largest buildings first; a name that would cover a stand number, a taxiway designator or another name is left out; unnamed buildings get no label.
 - Briefings and airport pages: approaches, declared distances, hot spots (Sylt M / P at the 06 end, Nuremberg M3 / M2), AIP sources.
+- Production build: the generated airport data (OSM layouts and buildings) is a JavaScript file of its own, so the code bundle stays below the bundler's size warning.
 
 ### Fixed
 

diff --git a/README.md b/README.md
@@ -2,7 +2,7 @@
 
 **Ultimate ATC** is an air traffic control simulator that runs in your browser. It aims to come as close as possible to [EuroScope](https://www.euroscope.hu/), the radar client used on the [VATSIM](https://vatsim.net/) network. You log in to a controller position at a real airport, and AI pilots respond to your instructions in ICAO phraseology, whether you type them or speak them.
 
-> **Status: version 1.2.0.** Three positions are playable at **Stuttgart (EDDS)**: **Delivery**, **Ground** and **Tower**, each alone or combined; **Nuremberg (EDDN)**, **Memmingen (EDJA)** and **Sylt (EDXW)** follow - Memmingen a small airport where departures and arrivals **backtrack** on the runway, Sylt a Tower-only airport with crossing runways. The code is built so that more positions (Approach/Departure, Center) and more airports (EDDF, EGLL, KLAX, KSAN, ...) can be added later. See the [roadmap](docs/roadmap.md).
+> **Status: version 1.3.0.** Three positions are playable at **Stuttgart (EDDS)**: **Delivery**, **Ground** and **Tower**, each alone or combined; **Nuremberg (EDDN)**, **Memmingen (EDJA)** and **Sylt (EDXW)** follow - Memmingen a small airport where departures and arrivals **backtrack** on the runway, Sylt a Tower-only airport with crossing runways. The code is built so that more positions (Approach/Departure, Center) and more airports (EDDF, EGLL, KLAX, KSAN, ...) can be added later. See the [roadmap](docs/roadmap.md).
 
 ![Ultimate ATC - EDDS Ground overview](docs/images/screenshot-overview.png)
 
@@ -110,7 +110,7 @@ The same 20 hours of Stuttgart traffic with the same simple automatic controller
 
 ## Data accuracy
 
-The EDDS layout (taxiways, holding points, stand numbers, aprons) was **digitised by hand from the AIP Germany aerodrome charts** (AD 2 EDDS 2-5 and 2-7) and checked against OpenStreetMap (holding points within 10 m). The de-icing pads, stand sizes and the published take-off run available from every entry follow the ground radar data of VATSIM Germany (used as a reference only); some areas (GA apron, US airfield) are simplified. Runway end coordinates come from [OurAirports](https://ourairports.com/) (public domain). The SIDs have their real designators and exit fixes; flight plans pick them by the direction of the destination. Frequencies of all airports were checked against the VATSIM Germany station data. The Nuremberg, Memmingen and Sylt layouts come from [OpenStreetMap](https://www.openstreetmap.org/) (© OpenStreetMap contributors, ODbL; the derived layout files are available under the ODbL), their procedures from the VATSIM Germany SOPs; the parts of Memmingen missing in OSM (taxiway R, Apron 4, the closed taxiways) were digitised by hand from the aerodrome chart. **Never use this simulator for real-world navigation or flight planning.** The airport pages ([EDDS](docs/airports/EDDS.md), [EDDN](docs/airports/EDDN.md), [EDJA](docs/airports/EDJA.md), [EDXW](docs/airports/EDXW.md)) describe exactly what is approximated.
+The EDDS layout (taxiways, holding points, stand numbers, aprons) was **digitised by hand from the AIP Germany aerodrome charts** (AD 2 EDDS 2-5 and 2-7) and checked against OpenStreetMap (holding points within 10 m); the building outlines come from OpenStreetMap. The de-icing pads, stand sizes and the published take-off run available from every entry follow the ground radar data of VATSIM Germany (used as a reference only); some areas (GA apron, US airfield) are simplified. Runway end coordinates come from [OurAirports](https://ourairports.com/) (public domain). The SIDs have their real designators and exit fixes; flight plans pick them by the direction of the destination. Frequencies of all airports were checked against the VATSIM Germany station data. The Nuremberg, Memmingen and Sylt layouts come from [OpenStreetMap](https://www.openstreetmap.org/) (© OpenStreetMap contributors, ODbL; the derived layout files are available under the ODbL), their procedures from the VATSIM Germany SOPs; the parts missing in OSM were digitised by hand from the charts (Memmingen: taxiway R, Apron 4, the closed taxiways; Nuremberg: the general aviation aprons; Sylt: the closed taxiways and the former runway). All four airports were checked against the DFS AIP (AIRAC 2026OCT01: thresholds, elevations, taxiway widths and limits, declared distances, published approaches); the charts are used as a reference only and are not part of the project. **Never use this simulator for real-world navigation or flight planning.** The airport pages ([EDDS](docs/airports/EDDS.md), [EDDN](docs/airports/EDDN.md), [EDJA](docs/airports/EDJA.md), [EDXW](docs/airports/EDXW.md)) describe exactly what is approximated.
 
 ## License
 

diff --git a/docs/airport-data.md b/docs/airport-data.md
@@ -234,7 +234,7 @@ node scripts/osm-import.mjs EDJA --osm edja.osm                        # or from
 node scripts/osm-import.mjs EDDS --osm map.osm,aerodrome.osm --buildings-only   # only the buildings (merged files)
 ```
 
-It writes `src/data/airports/<icao>.layout.ts` (do not edit by hand): the taxi graph of every way tagged `aeroway=taxiway`/`taxilane` connected to the runway centre line (`aeroway=runway` with a `ref` like `06/24`), reduced to junctions, ends, holding positions and shape points (Douglas-Peucker, `--simplify` metres, default 2.5); the runway holding positions (`aeroway=holding_position`); stands from `aeroway=parking_position` (the stand point and the lane points where the lead-in lines meet a taxiway; lanes off the graph are snapped onto the nearest taxiway); areas (aprons - ways and multipolygons -, paved taxiway areas `area:aeroway=taxiway`, helipads); buildings (every `building=*` inside the aerodrome boundary `aeroway=aerodrome` or within `--building-margin` metres - default 40 - of an apron or taxiway, multipolygons such as a terminal included, plus terminals, hangars and towers anywhere in the box; named after their `name` tag, unnamed ones get no label); and taxiways not connected to the runway as `pavement` lines (drawn only). Node ids are readable: `N.3` (third node on N), `N/W` (junction), `RWY.N` (where N meets the runway), `HP.<osm id>` (holding positions), `STAND_<id>`. The raw OSM data is not committed.
+It writes `src/data/airports/<icao>.layout.ts` (do not edit by hand): the taxi graph of every way tagged `aeroway=taxiway`/`taxilane` connected to the runway centre line (`aeroway=runway` with a `ref` like `06/24`), reduced to junctions, ends, holding positions and shape points (Douglas-Peucker, `--simplify` metres, default 2.5); the runway holding positions (`aeroway=holding_position`); stands from `aeroway=parking_position` (the stand point and the lane points where the lead-in lines meet a taxiway; lanes off the graph are snapped onto the nearest taxiway); areas (aprons - ways and multipolygons, not the grass ones (`surface` / `landuse=grass`) -, paved taxiway areas `area:aeroway=taxiway`, helipads); buildings (every `building=*` inside the aerodrome boundary `aeroway=aerodrome` or within `--building-margin` metres - default 40 - of an apron or taxiway, multipolygons such as a terminal included, plus terminals, hangars and towers anywhere in the box; named after their `name` tag, unnamed ones get no label); and taxiways not connected to the runway as `pavement` lines (drawn only). Node ids are readable: `N.3` (third node on N), `N/W` (junction), `RWY.N` (where N meets the runway), `HP.<osm id>` (holding positions), `STAND_<id>`. The raw OSM data is not committed.
 
 `buildLayout(layout, options)` in `src/data/airports/osmLayout.ts` turns it into nodes, edges and stands. The airport file says what OSM does not: which holding positions are runway holding points and their names (`holdingPoints`), which taxiways to keep (`taxiways`), names for unnamed ways (`taxiwayNames`, `"?"` = unnamed), apron taxilanes, wingspan limits and pavement widths per taxiway (`maxWingspanM`, `widthM`; also for unnamed lanes: key `''`; the importer writes OSM `width` tags into the layout), extra nodes and edges (a fifth element `true` marks an added edge permanently closed; `closedEdges` does the same for imported edges), imported edges that are drawn only (`drawOnly`, `"from>to"`: links inside a runway strip, the second fillet of a junction - they become `pavement` lines), dead ends to keep (`keepNodes`: a lane to a GA apron or a hangar), and every stand with its size, apron and pushback / taxi-out (`osm: '1'` takes position and lanes from an imported stand whose OSM ref differs from the published designator, e.g. Memmingen P11). It makes every way onto the runway go through a holding point: the shortest way from each named holding point to the runway centre line becomes one `runwayStrip` edge (the nodes in between become its `shape`, so it keeps its curve), other taxiway edges touching the runway are removed, and dead ends are pruned. `exitVia(built, 'N', holdingPointNode)` builds an exit path (runway node, holding point, the next nodes up to 50 m behind it). The airport file passes `built.pavement` on as `pavement` (the `drawOnly` edges and the loose taxiways; `dropLoosePavement: true` leaves the latter out). See `edja.ts` and `edxw.ts`.
 

diff --git a/docs/roadmap.md b/docs/roadmap.md
@@ -31,7 +31,7 @@ Further airports follow in the 1.x releases (the airport data format, the data c
 | **0.8** | **done** - Combined positions with Tower, AI pilots that resolve simple conflicts (opposite traffic, lane priority), debriefing |
 | 0.9 | **done** - Scenario conditions (night flying restrictions, closed taxiways, thunderstorm), tutorials, traffic sliders, polish; final review in the [release report](release-1.0-report.md) |
 | **1.0** | **released 2026-10-13** - the first full version, see the [release report](release-1.0-report.md) |
-| 1.x | Further airports - 1.1 de-icing, Nuremberg, Memmingen, Sylt and runway backtracking; 1.1.1 Memmingen after the aerodrome chart, rounded taxiway drawing; 1.2 real-world data overhaul (SIDs by destination, Stuttgart TORA, de-icing pads, stands) and the PHX scope style of VATSIM Germany |
+| 1.x | Further airports - 1.1 de-icing, Nuremberg, Memmingen, Sylt and runway backtracking; 1.1.1 Memmingen after the aerodrome chart, rounded taxiway drawing; 1.2 real-world data overhaul (SIDs by destination, Stuttgart TORA, de-icing pads, stands) and the PHX scope style of VATSIM Germany; 1.3 complete Sylt and Nuremberg layouts, buildings from OpenStreetMap at every airport, all airports checked against the AIP (approaches per runway, declared distances, widths) |
 
 Major releases (1.0, 2.0, ...) come with a statistics section in [benchmarks.md](benchmarks.md) that compares them with the previous major release.
 
@@ -117,6 +117,8 @@ Wishes collected for the 1.x releases (from the [release report](release-1.0-rep
 - **done** (1.1) - **EDDS holding bays P1/P2** (bypass at the 25 end) and **de-icing pads DP1-DP4** with de-icing as a scenario condition (winter operations); since 1.2 at their real positions (P1/P2 from OSM, DP1-DP4 after the VATSIM Germany ground radar data) with their wingspan limits
 - **done** (1.2) - **Real-world data overhaul** of all four airports: SIDs with the real designators planned towards the destination, published take-off run available from every Stuttgart entry (25: 3045 m), Stuttgart stand sizes and wide-body positions, Apron South after AIRAC 2512, crossings only between K and Y, radar frequency per SID, magnetic variation 2026
 - **done** (1.2) - **EuroScope look of VATSIM Germany** (PHX night / day: the DFS PHOENIX tower display): colours, radar returns with SSR symbol and history dots, departure / arrival tag colours, PHX ground states, VATSIM Germany tag and list layout with clickable list cells
+- **done** (1.3) - **Complete layouts**: every taxiway of the Sylt aerodrome chart (light-aircraft taxiways with their limits, closed parts drawn), the Nuremberg GA lanes and aprons, all buildings on every aerodrome from OpenStreetMap (also Stuttgart), paved areas inside runway strips drawn but not routed
+- **done** (1.3) - **AIP check of all four airports**: published approaches per runway (Sylt 14 RNP only), declared distances from every entry, taxiway widths and code letter limits, thresholds and elevations
 - planned - **Low visibility procedures (LVP)** with the CAT II/III holding points and larger spacing (values from the AIP, supplied as text)
 - planned - **Voice**: test text-to-speech and speech recognition again on the iPad and switch them back on
 - planned - Smarter AI Tower after a rejected take-off; partial taxiway closures; a taxiway blocked during the session (special event)

diff --git a/docs/airports/EDXW.md b/docs/airports/EDXW.md
@@ -19,7 +19,7 @@ The simulator shows a condensed version of this page as the **airport briefing**
 | ---- | ------ |
 | Taxiways, holding points, aprons, buildings, stands 01-03 | [OpenStreetMap](https://www.openstreetmap.org/) - © OpenStreetMap contributors, [ODbL 1.0](https://opendatacommons.org/licenses/odbl/). Imported with `scripts/osm-import.mjs`; the derived layout is available under the ODbL |
 | Runway thresholds and elevations, aerodrome elevation and reference point, declared distances, intersection take-off distances, approaches per runway, taxiway widths, surfaces and weight limits, parking rules | DFS AIP Germany AD 2 EDXW (AIRAC 2026OCT01) and its aerodrome chart AD 2 EDXW 2-5 (AMDT 06/26), used as a reference only: facts digitised by hand, no chart content copied |
-| Taxiway names L1 / L3, which parts of G, E and C are closed (X on the chart) | Aerodrome chart (as above); the closed parts that OSM does not have are digitised by hand from the georeferenced chart (approximate, ±20 m) |
+| Taxiway names L1 / L3, the closed parts (X on the chart) and the former runway | Aerodrome chart (as above); what OSM does not have - G along the east side, the G links into the 24 end and to runway 14/32 at the glide path antenna, E south of runway 06/24, the former runway (80 m wide) with the links around it, the stub west of D and the turning pad at A - is digitised by hand from the chart, georeferenced on the four runway ends (approximate, about 5 m) |
 | Frequencies, SIDs, runway use, stands | VATSIM Germany Sylt SOP (facts only; a simulation resource, not an official source); frequencies checked against the VATSIM Germany station data and vATIS profile, the SIDs and their initial climb (4000 ft) against the VATSIM Germany vSID configuration and the AIP SID charts (2026-10-21) |
 | Magnetic variation | NOAA World Magnetic Model (October 2026); the AIP gives 3.5° E (2023.11) + 0.2° per year |
 
@@ -69,7 +69,8 @@ All taxiways of the aerodrome chart (AIP AD 2.8: 15 m wide, C 12 m; I grass):
 | **B** | From A to runway 14/32 near the 32 end; 5.7 t (light aircraft) |
 | **L** | From the 14 end (holding point L, opposite D) east past Apron 3 to Apron 4; L1 leads into Apron 3, L3 along its east side |
 | **F, E** | F from L round the north of the airfield to the 24 end of runway 06/24 (holding point F); E from F to runway 06/24 a little before |
-| **G** | From the 32 end (holding point G) north-east to the track to the glider site; the rest of G (along the east side to the 24 end, and the link west to runway 14/32) is closed (crosses) |
+| **G** | From the 32 end (holding point G) north-east to the track to the glider site; the rest of G (along the east side to the 24 end, and the link west to runway 14/32 at the glide path antenna) is closed (crosses) |
+| Former runway | An 80 m wide paved band from D / C across runway 14/32 to the east, closed east of 14/32 (crosses) like E south of runway 06/24, the narrow links and the loop around it and the link from A along runway 06/24; C runs on its western part. Drawn only |
 | **I, M, P** | To Apron 2 (general aviation) in the west: I (grass, 2 t) from D; M and P from Apron 2 to runway 06/24 at its 06 end (holding points M and P - hot spot "holding points! Runway ahead!") |
 
 | Stands | Use in the simulator |
